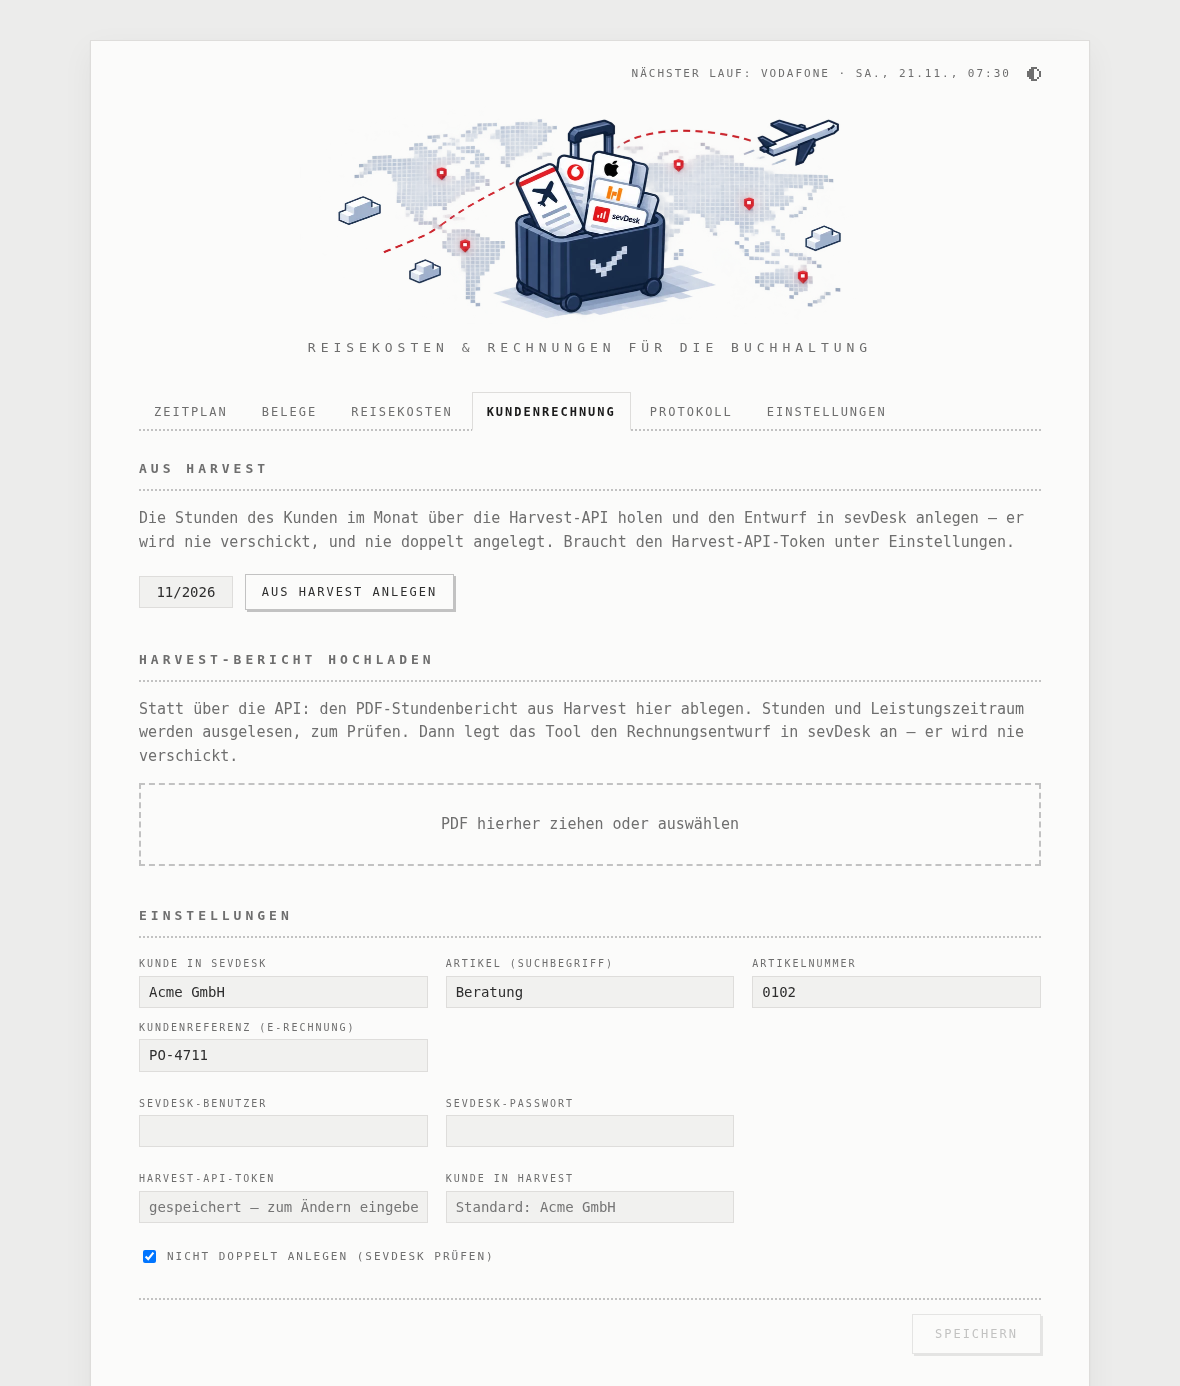
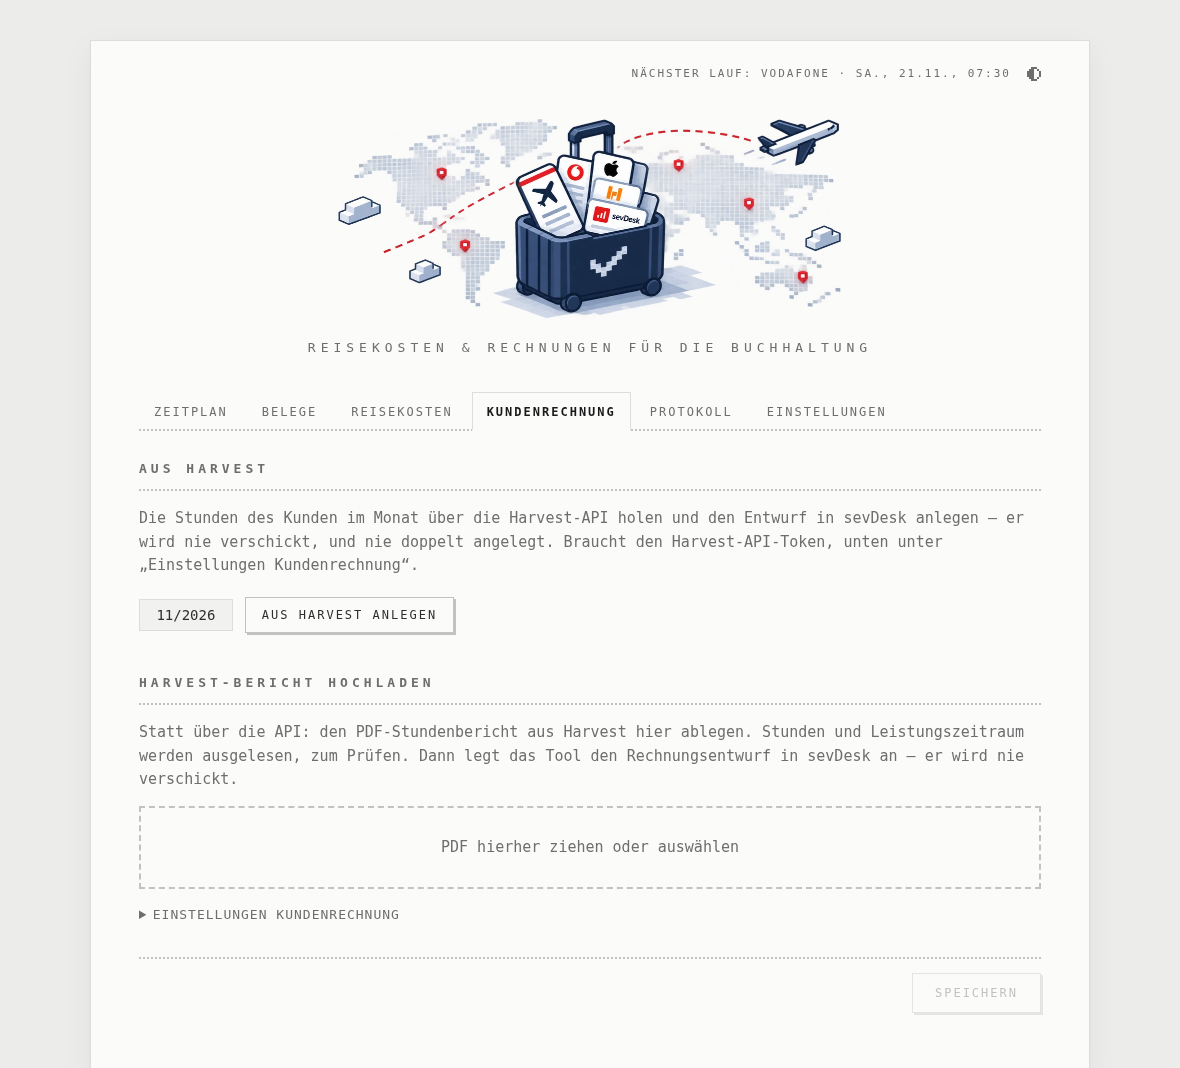
Web interface: Kundenrechnung's settings folded away, as on Belege
Claude-Session: https://claude.ai/code/session_01FXXeyGX9nkbXjdAycGNCsJ

diff --git a/web/index.html b/web/index.html
@@ -103,7 +103,7 @@
     <!-- Kundenrechnung -->
     <section id="tab-invoice" class="tab" hidden>
       <h2>Aus Harvest</h2>
-      <p class="muted">Die Stunden des Kunden im Monat über die Harvest-API holen und den Entwurf in sevDesk anlegen — er wird nie verschickt, und nie doppelt angelegt. Braucht den Harvest-API-Token unter Einstellungen.</p>
+      <p class="muted">Die Stunden des Kunden im Monat über die Harvest-API holen und den Entwurf in sevDesk anlegen — er wird nie verschickt, und nie doppelt angelegt. Braucht den Harvest-API-Token, unten unter „Einstellungen Kundenrechnung“.</p>
       <div class="actions">
         <input id="harvest-month" class="month" inputmode="numeric" placeholder="11/2026" aria-label="Monat (M/JJJJ)">
         <button type="button" id="harvest-run">Aus Harvest anlegen</button>
@@ -129,7 +129,7 @@
       </form>
       <div class="console" data-console="invoice" hidden></div>
 
-      <form class="part" data-part="invoice"></form>
+      <details class="part-box"><summary>Einstellungen Kundenrechnung</summary><form class="part" data-part="invoice"></form></details>
     </section>
 
     <!-- Belege -->

diff --git a/web/app.js b/web/app.js
@@ -549,7 +549,7 @@ const PARTS = {
     ['TravelExpense.MealRates.FullDay', 'Ganzer Tag (€)', 'money', 28],
     ['TravelExpense.MealRates.TravelDay', 'An-/Abreisetag (€)', 'money', 14],
   ]]],
-  invoice: [['Einstellungen', [
+  invoice: [['', [
     ['HarvestInvoice.SevDesk.ClientName', 'Kunde in sevDesk'],
     ['HarvestInvoice.SevDesk.ProductName', 'Artikel (Suchbegriff)'], ['HarvestInvoice.SevDesk.ProductNum', 'Artikelnummer'],
     ['HarvestInvoice.SevDesk.ReferenceNum', 'Kundenreferenz (E-Rechnung)'],

diff --git a/server.go b/server.go
@@ -396,7 +396,7 @@ func (s *server) harvestRun(w http.ResponseWriter, r *http.Request) {
 		return
 	}
 	if cfg.HarvestInvoice.Harvest.Token == "" {
-		fail(w, http.StatusBadRequest, errors.New("kein Harvest-API-Token: unter Einstellungen eintragen"))
+		fail(w, http.StatusBadRequest, errors.New("kein Harvest-API-Token: unter „Einstellungen Kundenrechnung“ eintragen"))
 		return
 	}
 	title := fmt.Sprintf("Kundenrechnung %d/%d aus Harvest", month, year)
